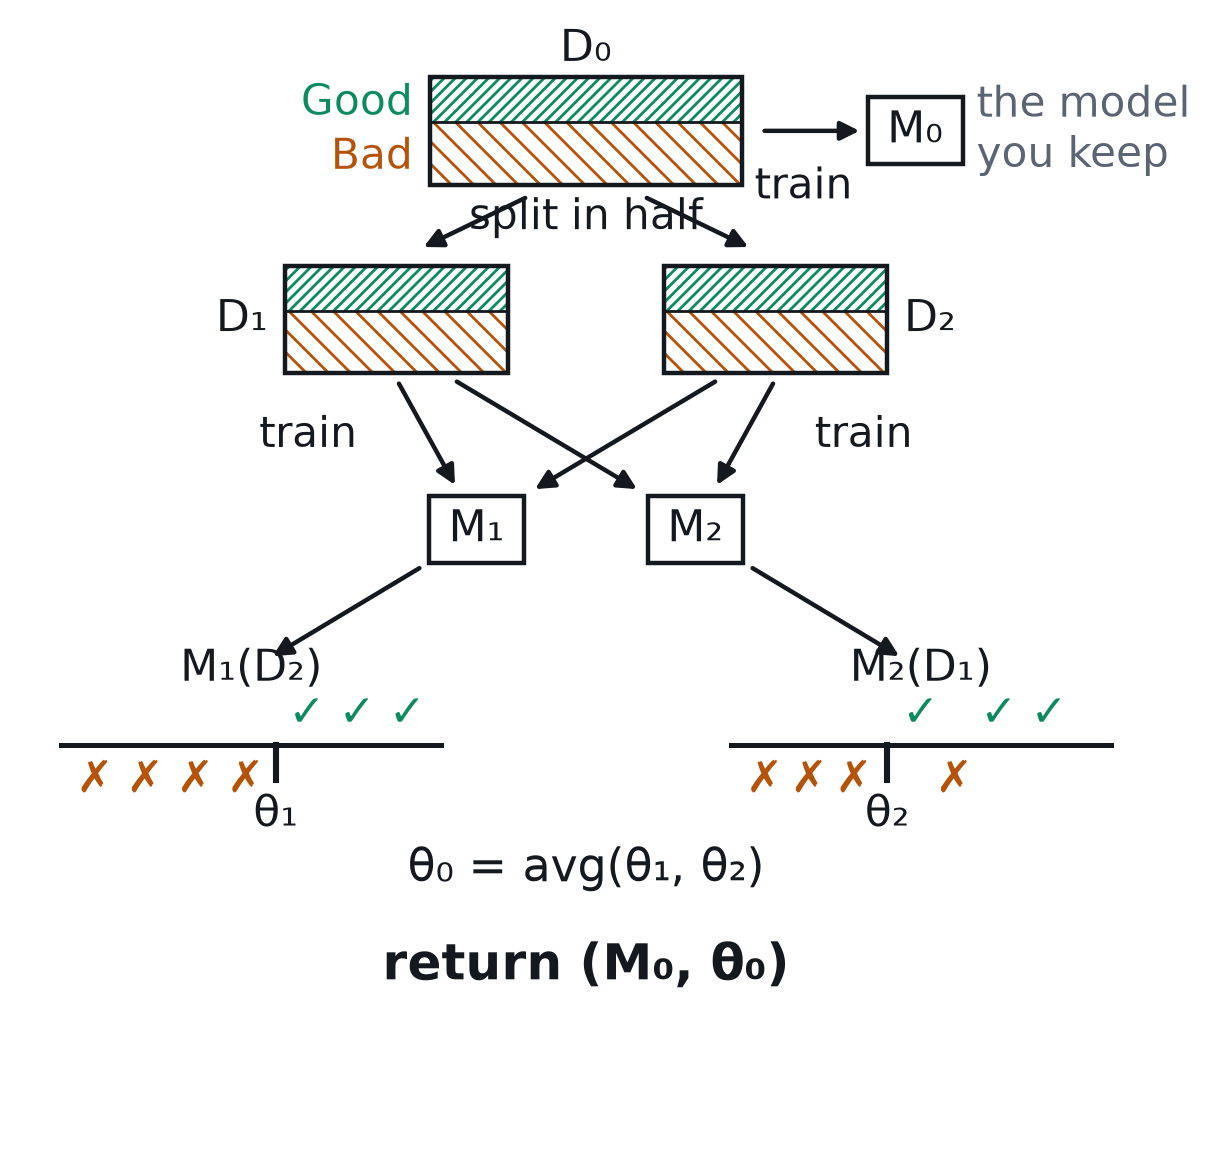
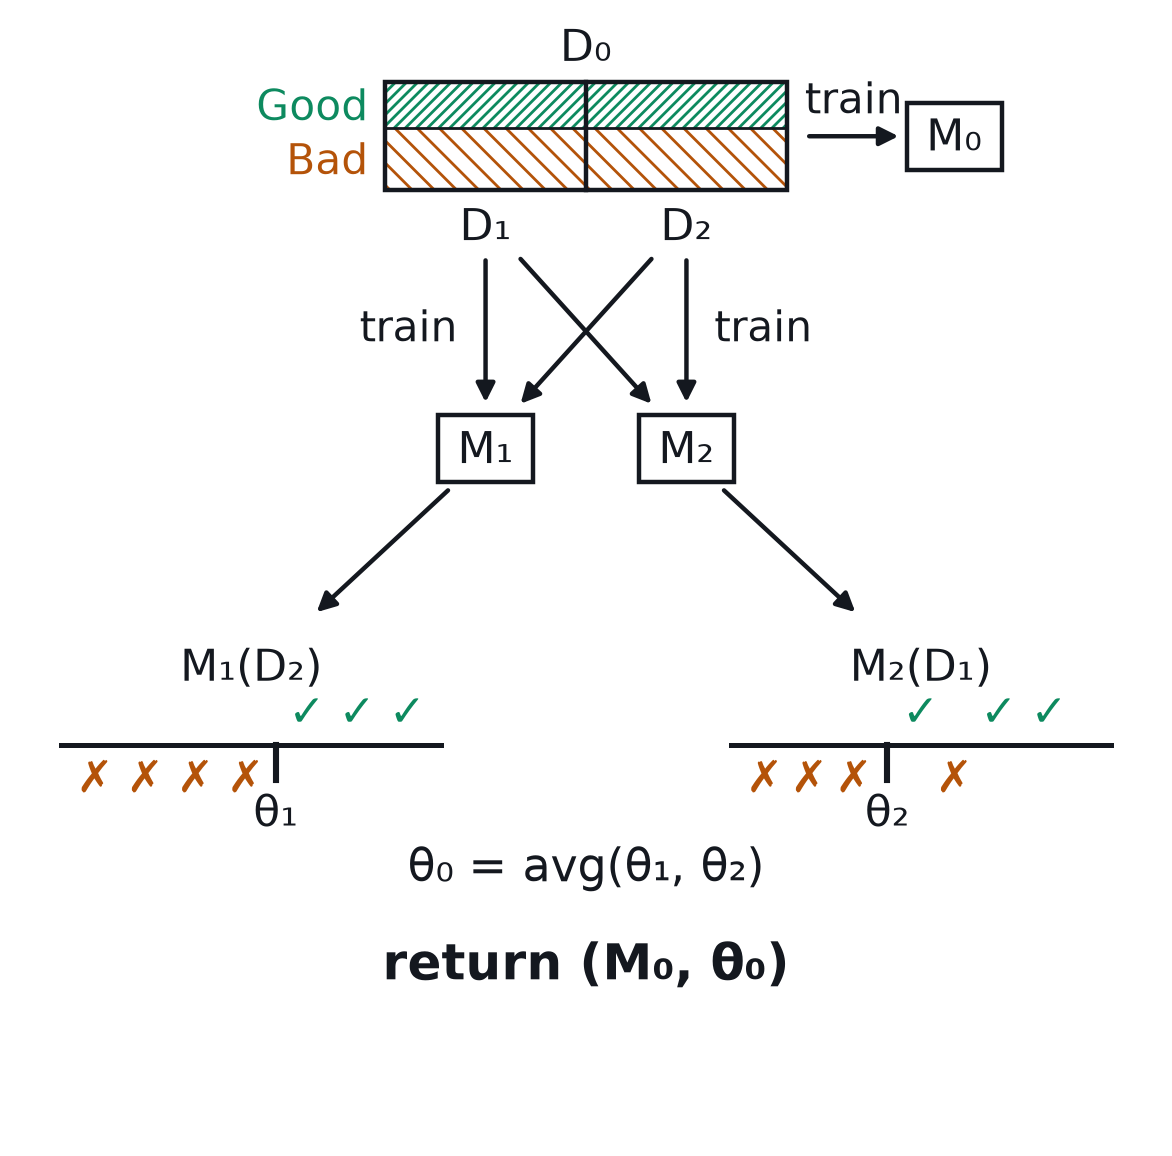
Simplify the xcal figure layout per mockup feedback
Draw the split instead of writing it: D0 is one block with a centre
divider, halves labelled D1/D2. Train arrows are vertical, leaving the
crossed scoring paths as the only diagonals. Drop the 'the model you
keep' note, optically centre the model-box labels, and pull the scoring
arrowheads back from the M1(D2)/M2(D1) labels.

Claude-Session: https://claude.ai/code/session_0189rZgYH7wrcWb1QEZoAdxN

diff --git a/slides/figs/src/make-calib-figs.py b/slides/figs/src/make-calib-figs.py
@@ -78,12 +78,15 @@ def xcal_flow_fig() -> None:
     on top (pooled folds, the conformal quantile, re-drawn splits) are later
     iterations of the deck's story and deliberately absent here.
 
-    Two touches carried over from the mockup on purpose: the D₂ → M₁ → M₁(D₂)
-    path is one straight diagonal (and mirrors D₁ → M₂ → M₂(D₁)), so the two
-    scoring paths draw the X of "cross"-calibration; and one held-out ordering
-    is imperfect — a Bad lands above θ₂ — because a fold model's ranking of
-    votes it never saw is not trivially clean. Green = Good media, red = Bad
-    media (amorphous regions); everything else ink on white.
+    Layout rules carried over from the mockup on purpose: the split is drawn,
+    not written — D₀ is one block with a centre divider whose halves are
+    labelled D₁ and D₂; the train arrows D₁ → M₁ and D₂ → M₂ are vertical, so
+    the only diagonals are the two scoring paths D₂ → M₁ → M₁(D₂) and
+    D₁ → M₂ → M₂(D₁), which cross into the X that names cross-calibration;
+    and one held-out ordering is imperfect — a Bad lands above θ₂ — because a
+    fold model's ranking of votes it never saw is not trivially clean.
+    Green = Good media, red = Bad media (amorphous regions); everything else
+    ink on white.
     """
     from matplotlib.patches import FancyArrowPatch, Rectangle  # noqa: PLC0415
 
@@ -92,7 +95,7 @@ def xcal_flow_fig() -> None:
     ax.set_ylim(0, 10)
     ax.set_axis_off()
 
-    def data_block(x0: float, y0: float, w: float, h: float) -> None:
+    def data_block(x0: float, y0: float, w: float, h: float, split: bool = False) -> None:
         """A block of labelled media: an amorphous green (Good) region over a red (Bad) one."""
         good_h = 0.42 * h
         ax.add_patch(
@@ -112,6 +115,8 @@ def xcal_flow_fig() -> None:
         )
         ax.add_patch(Rectangle((x0, y0), w, h, facecolor="none", edgecolor=INK, linewidth=1.6, zorder=3))
         ax.plot([x0, x0 + w], [y0 + h - good_h] * 2, color=INK, linewidth=1.0, zorder=3)
+        if split:
+            ax.plot([x0 + w / 2] * 2, [y0, y0 + h], color=INK, linewidth=1.6, zorder=3)
 
     def arrow(xy_from: tuple[float, float], xy_to: tuple[float, float]) -> None:
         ax.add_patch(
@@ -123,7 +128,9 @@ def xcal_flow_fig() -> None:
         ax.add_patch(
             Rectangle((cx - w / 2, cy - h / 2), w, h, facecolor="white", edgecolor=INK, linewidth=1.6, zorder=3)
         )
-        ax.text(cx, cy, label, ha="center", va="center", fontsize=16, color=INK, zorder=4)
+        # center_baseline + a hair of lift: optically centers the cap-height "M"
+        # in the box despite the subscript digit hanging below the baseline.
+        ax.text(cx, cy + 0.025, label, ha="center", va="center_baseline", fontsize=16, color=INK, zorder=4)
 
     def score_line(cx: float, label: str, bad: list[float], good: list[float], theta_x: float, theta: str) -> None:
         """Held-out scores on a number line: Bad low, Good high, a cut between."""
@@ -137,38 +144,31 @@ def xcal_flow_fig() -> None:
         ax.plot([cx + theta_x] * 2, [y - 0.32, y], color=INK, linewidth=2.2, zorder=3)
         ax.text(cx + theta_x, y - 0.44, theta, ha="center", va="top", fontsize=16, color=INK)
 
-    # ── D0 and the model you keep ─────────────────────────────────────────────
+    # ── D0, already drawn split in half, and the model trained on all of it ───
     ax.text(5.0, 9.8, "D₀", ha="center", va="bottom", fontsize=16, color=INK)
-    data_block(3.6, 8.75, 2.8, 1.0)
-    ax.text(3.45, 9.5, "Good", ha="right", va="center", fontsize=15, color=GREEN)
-    ax.text(3.45, 9.0, "Bad", ha="right", va="center", fontsize=15, color=RUST)
-    arrow((6.55, 9.25), (7.5, 9.25))
-    ax.text(6.95, 8.92, "train", ha="center", va="top", fontsize=15, color=INK)
-    model_box(7.95, 9.25, "M₀")
-    ax.text(8.5, 9.25, "the model\nyou keep", ha="left", va="center", fontsize=15, color=SOFT)
-
-    # ── split in half ─────────────────────────────────────────────────────────
-    arrow((4.5, 8.65), (3.5, 8.15))
-    arrow((5.5, 8.65), (6.5, 8.15))
-    ax.text(5.0, 8.44, "split in half", ha="center", va="center", fontsize=15, color=INK)
-    data_block(2.3, 7.0, 2.0, 1.0)
-    ax.text(2.15, 7.5, "D₁", ha="right", va="center", fontsize=16, color=INK)
-    data_block(5.7, 7.0, 2.0, 1.0)
-    ax.text(7.85, 7.5, "D₂", ha="left", va="center", fontsize=16, color=INK)
+    data_block(3.2, 8.7, 3.6, 1.0, split=True)
+    ax.text(3.05, 9.45, "Good", ha="right", va="center", fontsize=15, color=GREEN)
+    ax.text(3.05, 8.95, "Bad", ha="right", va="center", fontsize=15, color=RUST)
+    ax.text(4.1, 8.55, "D₁", ha="center", va="top", fontsize=16, color=INK)
+    ax.text(5.9, 8.55, "D₂", ha="center", va="top", fontsize=16, color=INK)
+    arrow((6.95, 9.2), (7.85, 9.2))
+    ax.text(7.4, 9.32, "train", ha="center", va="bottom", fontsize=15, color=INK)
+    model_box(8.3, 9.2, "M₀")
 
     # ── train a model per half; score the other half ──────────────────────────
-    # D₂ → M₁ → M₁(D₂) is one straight diagonal, mirrored by D₁ → M₂ → M₂(D₁):
-    # the two scoring paths draw the X that names cross-calibration.
-    model_box(4.02, 5.55, "M₁")
-    model_box(5.98, 5.55, "M₂")
-    arrow((3.3, 6.95), (3.85, 5.92))
-    ax.text(2.95, 6.42, "train", ha="right", va="center", fontsize=15, color=INK)
-    arrow((6.7, 6.95), (6.15, 5.92))
-    ax.text(7.05, 6.42, "train", ha="left", va="center", fontsize=15, color=INK)
-    arrow((6.2, 6.95), (4.5, 5.9))
-    arrow((3.8, 6.95), (5.5, 5.9))
-    arrow((3.55, 5.22), (2.15, 4.35))
-    arrow((6.45, 5.22), (7.85, 4.35))
+    # The train arrows are vertical; the only diagonals are the scoring paths
+    # D₂ → M₁ → M₁(D₂) and D₁ → M₂ → M₂(D₁), whose crossing draws the X that
+    # names cross-calibration.
+    model_box(4.1, 6.3, "M₁")
+    model_box(5.9, 6.3, "M₂")
+    arrow((4.1, 8.1), (4.1, 6.68))
+    ax.text(3.85, 7.4, "train", ha="right", va="center", fontsize=15, color=INK)
+    arrow((5.9, 8.1), (5.9, 6.68))
+    ax.text(6.15, 7.4, "train", ha="left", va="center", fontsize=15, color=INK)
+    arrow((5.62, 8.1), (4.38, 6.68))
+    arrow((4.38, 8.1), (5.62, 6.68))
+    arrow((3.8, 5.95), (2.55, 4.75))
+    arrow((6.2, 5.95), (7.45, 4.75))
 
     # ── per-half held-out scores; cut each, average ───────────────────────────
     score_line(2.0, "M₁(D₂)", bad=[-1.4, -0.95, -0.5, -0.05], good=[0.5, 0.95, 1.4], theta_x=0.22, theta="θ₁")
